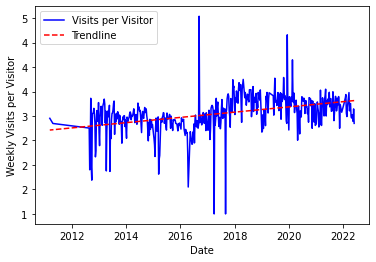
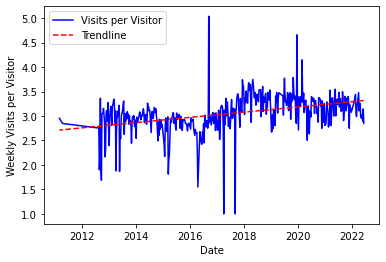
Page views per visitor added

diff --git a/README.md b/README.md
@@ -56,7 +56,7 @@ This particular graph isn't stand-out, we see overall a decrease in the amount o
 
 ![page views per visitor line graph](images/page_views_per_visitor.png)
 
-When looking at the Page Views per Visitor line graph
+When looking at the Page Views per Visitor line graph we see some more encouraging trends about the site, that the average number of pages that a visitor views each week are increasing. One can then assume from this that visitors are thus spending more time on the site, leading to more advertising impressions and perhaps more revenue. 
 
 **Page views per visit per visitor?**
 
@@ -71,8 +71,6 @@ This section looks at the ~~potentially~~ less consequential changes in the cont
 ### Post Time
 
 ### Number of Articles Featured
-
-###
 
 ## File List
 
